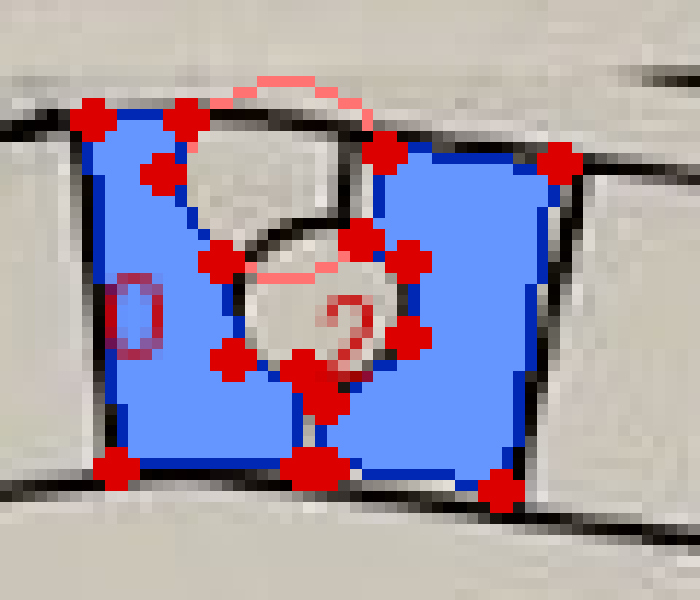
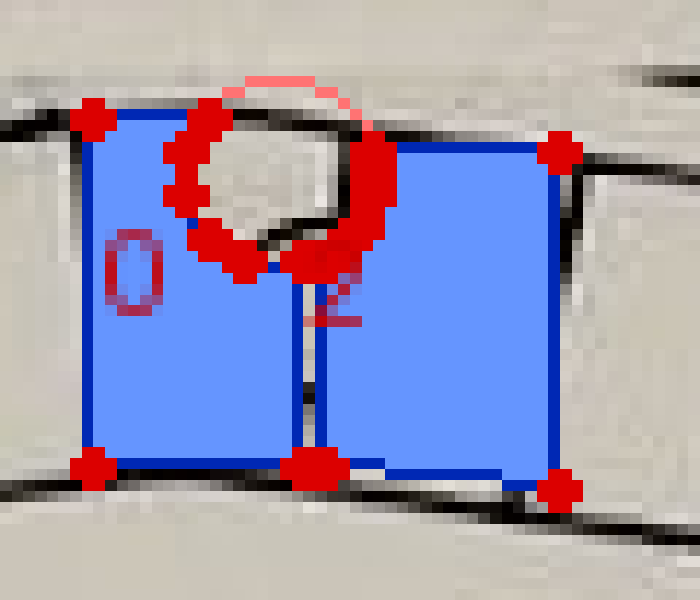
feat: add new diagnostic images and refine lot plan polygon coordinates for improved accuracy

diff --git a/templates/staff/dashboard.html b/templates/staff/dashboard.html
@@ -334,7 +334,6 @@
             <svg viewBox="0 0 24 24" fill="none" stroke="currentColor" stroke-width="2" stroke-linecap="round" stroke-linejoin="round" aria-hidden="true">
                 <polyline points="22 12 18 12 15 21 9 3 6 12 2 12"/>
             </svg>
-            <span>Analytics Period</span>
         </div>
 
         <div class="analytics-filter-controls">

diff --git a/scratch/refit_lot0.py b/scratch/refit_lot0.py
@@ -1,4 +1,4 @@
-"""Trace and refit lots 0 and 2 from ink flood contours; circle arc on ink ring."""
+"""Refit lot 0 only from ink flood contour; circle excluded. Preserve lot 2."""
 import json
 import math
 import shutil
@@ -11,7 +11,7 @@ from PIL import Image, ImageDraw
 W, H = 906, 543
 POLY = Path("static/units/lot_plan_polygons.json")
 IMG = Path("static/images/lot_plan_roads.png")
-bak = Path("scratch/lot_plan_polygons_before_refit_0_2.json")
+bak = Path("scratch/lot_plan_polygons_before_refit_lot0.json")
 shutil.copy(POLY, bak)
 
 data = json.loads(POLY.read_text(encoding="utf-8"))
@@ -24,7 +24,7 @@ ink = cv2.dilate(ink, np.ones((2, 2), np.uint8), 1)
 fillable = ((gray >= 145) & (gray <= 210)).astype(np.uint8) * 255
 fillable = cv2.bitwise_and(fillable, cv2.bitwise_not(ink))
 
-CX, CY, R = 649.0, 16.0, 8.5  # ink ring radius at junction
+CX, CY, R = 649.0, 16.0, 9.0
 
 
 def r4(v: float) -> float:
@@ -78,27 +78,6 @@ def snap_lot0(xy: np.ndarray) -> np.ndarray:
     return np.array(out, float)
 
 
-def snap_lot2(xy: np.ndarray) -> np.ndarray:
-    out = []
-    for x, y in xy:
-        if x < 655 and y > 30:
-            x = 652.5
-        elif x < 655 and y < 30:
-            pass
-        elif x > 670:
-            x = 672.5
-        if y < 14.5 and x > 665:
-            y = 13.5
-        elif y < 14.5 and x < 660:
-            y = 13.5
-        if y > 43 and x > 665:
-            y = 44.5
-        elif y > 41 and x < 655:
-            y = 42.5
-        out.append([x, y])
-    return np.array(out, float)
-
-
 def dedupe(xy: np.ndarray, tol: float = 0.35) -> np.ndarray:
     out = []
     for p in xy:
@@ -109,85 +88,37 @@ def dedupe(xy: np.ndarray, tol: float = 0.35) -> np.ndarray:
     return np.array(out)
 
 
-def norm_ang(a: float) -> float:
-    while a > math.pi:
-        a -= 2 * math.pi
-    while a < -math.pi:
-        a += 2 * math.pi
-    return a
-
-
-def h_hit(y: float, x_lo: float, x_hi: float) -> np.ndarray | None:
-    d2 = R ** 2 - (y - CY) ** 2
-    if d2 < 0:
-        return None
-    xs = [CX - math.sqrt(d2), CX + math.sqrt(d2)]
-    xs = [x for x in xs if x_lo <= x <= x_hi]
-    return np.array([min(xs), y]) if xs else None
-
-
-def v_hit(x: float, y_lo: float, y_hi: float) -> np.ndarray | None:
-    d2 = R ** 2 - (x - CX) ** 2
-    if d2 < 0:
-        return None
-    ys = [CY - math.sqrt(d2), CY + math.sqrt(d2)]
-    ys = [y for y in ys if y_lo <= y <= y_hi]
-    return np.array([x, min(ys)]) if ys else None
-
-
-def arc_pts(a1: float, a2: float, steps: int = 5) -> list[np.ndarray]:
-    da = norm_ang(a2 - a1)
-    if abs(da) > math.pi:
-        da = da - 2 * math.pi if da > 0 else da + 2 * math.pi
-    return [
-        np.array([CX + R * math.cos(a1 + da * t), CY + R * math.sin(a1 + da * t)])
-        for t in np.linspace(0, 1, steps)
-    ]
-
-
-def build_lot0() -> np.ndarray:
-    p_top = h_hit(10.5, 632.5, 650.5)
-    p_right = v_hit(650.5, 10.5, 43.5)
-    a1 = math.atan2(p_top[1] - CY, p_top[0] - CX)
-    a2 = math.atan2(p_right[1] - CY, p_right[0] - CX)
-    pts = [
+cell0 = flood_cell(640, 28, (632, 8, 652, 48))
+raw = snap_lot0(extract_polygon(cell0))
+# clockwise from top-left: top -> notch -> right -> bottom -> left
+lot0 = np.array(
+    [
         [632.5, 10.5],
-        p_top,
-        *arc_pts(a1, a2, 6),
-        p_right,
+        [641.0, 10.5],
+        [639.0, 16.0],
+        [644.0, 24.0],
+        [645.0, 33.0],
+        [650.5, 34.0],
         [650.5, 42.5],
         [632.5, 42.5],
-    ]
-    return dedupe(np.array(pts, float))
+    ],
+    float,
+)
+# pull notch/edge points from raw if present
+for i, target in enumerate(lot0):
+    for p in raw:
+        if np.linalg.norm(p - target) < 2.5:
+            lot0[i] = p
+            break
+lot0 = dedupe(lot0)
 
-
-def build_lot2() -> np.ndarray:
-    p_left = v_hit(652.5, 13.5, 45.5)
-    p_top = h_hit(13.5, 652.5, 672.5)
-    b1 = math.atan2(p_left[1] - CY, p_left[0] - CX)
-    b2 = math.atan2(p_top[1] - CY, p_top[0] - CX)
-    pts = [
-        p_top,
-        [672.5, 13.5],
-        [672.5, 44.5],
-        [652.5, 42.5],
-        p_left,
-        *arc_pts(b1, b2, 6),
-    ]
-    return dedupe(np.array(pts, float))
-
-
-lot0 = build_lot0()
-lot2 = build_lot2()
-
-for idx, xy in [(0, lot0), (2, lot2)]:
-    lots[idx] = {
-        "points": to_norm(xy),
-        "cx": r4(xy[:, 0].mean() / W),
-        "cy": r4(xy[:, 1].mean() / H),
-        "area": r4(abs(float(cv2.contourArea(xy.astype(np.float32)))) / (W * H)),
-    }
-    print(idx, [(round(x, 1), round(y, 1)) for x, y in xy])
+lots[0] = {
+    "points": to_norm(lot0),
+    "cx": r4(lot0[:, 0].mean() / W),
+    "cy": r4(lot0[:, 1].mean() / H),
+    "area": r4(abs(float(cv2.contourArea(lot0.astype(np.float32)))) / (W * H)),
+}
+print("0", [(round(x, 1), round(y, 1)) for x, y in lot0])
 
 
 def to_xy(pts):
@@ -206,21 +137,15 @@ def point_in_poly(x, y, poly):
     return inside
 
 
-def coverage(rr=5):
-    cov = {0: 0, 2: 0}
-    for y in range(int(CY - rr), int(CY + rr) + 1):
-        for x in range(int(CX - rr), int(CX + rr) + 1):
-            if (x - CX) ** 2 + (y - CY) ** 2 > rr * rr:
-                continue
-            for i in [0, 2]:
-                if point_in_poly(x + 0.5, y + 0.5, to_xy(lots[i]["points"])):
-                    cov[i] += 1
-    return cov
-
-
-cov = coverage()
-print("coverage r=6", cov)
-assert cov[0] == 0 and cov[2] == 0
+cov = 0
+for y in range(int(CY - 6), int(CY + 6) + 1):
+    for x in range(int(CX - 6), int(CX + 6) + 1):
+        if (x - CX) ** 2 + (y - CY) ** 2 > 36:
+            continue
+        if point_in_poly(x + 0.5, y + 0.5, to_xy(lots[0]["points"])):
+            cov += 1
+print("circle coverage", cov)
+assert cov == 0
 assert len(lots) == 420
 data["lots"] = lots
 POLY.write_text(json.dumps(data, indent=2), encoding="utf-8")
@@ -235,7 +160,7 @@ for i in [0, 2]:
     for x, y in pts:
         dr.ellipse([x - 1.5, y - 1.5, x + 1.5, y + 1.5], fill=(220, 0, 0, 255))
     dr.text((L["cx"] * W - 8, L["cy"] * H - 4), str(i), fill=(200, 0, 0, 255))
-vis.crop((625, 0, 685, 55)).resize((700, 600), Image.NEAREST).save("scratch/fix_0_2_circle_cut.png")
+vis.crop((625, 0, 685, 55)).resize((700, 600), Image.NEAREST).save("scratch/fix_0_circle_cut.png")
 
 ov = Path("scratch/lot_plan_all_indices.png")
 vis2 = Image.fromarray(rgb.copy()).convert("RGBA")
